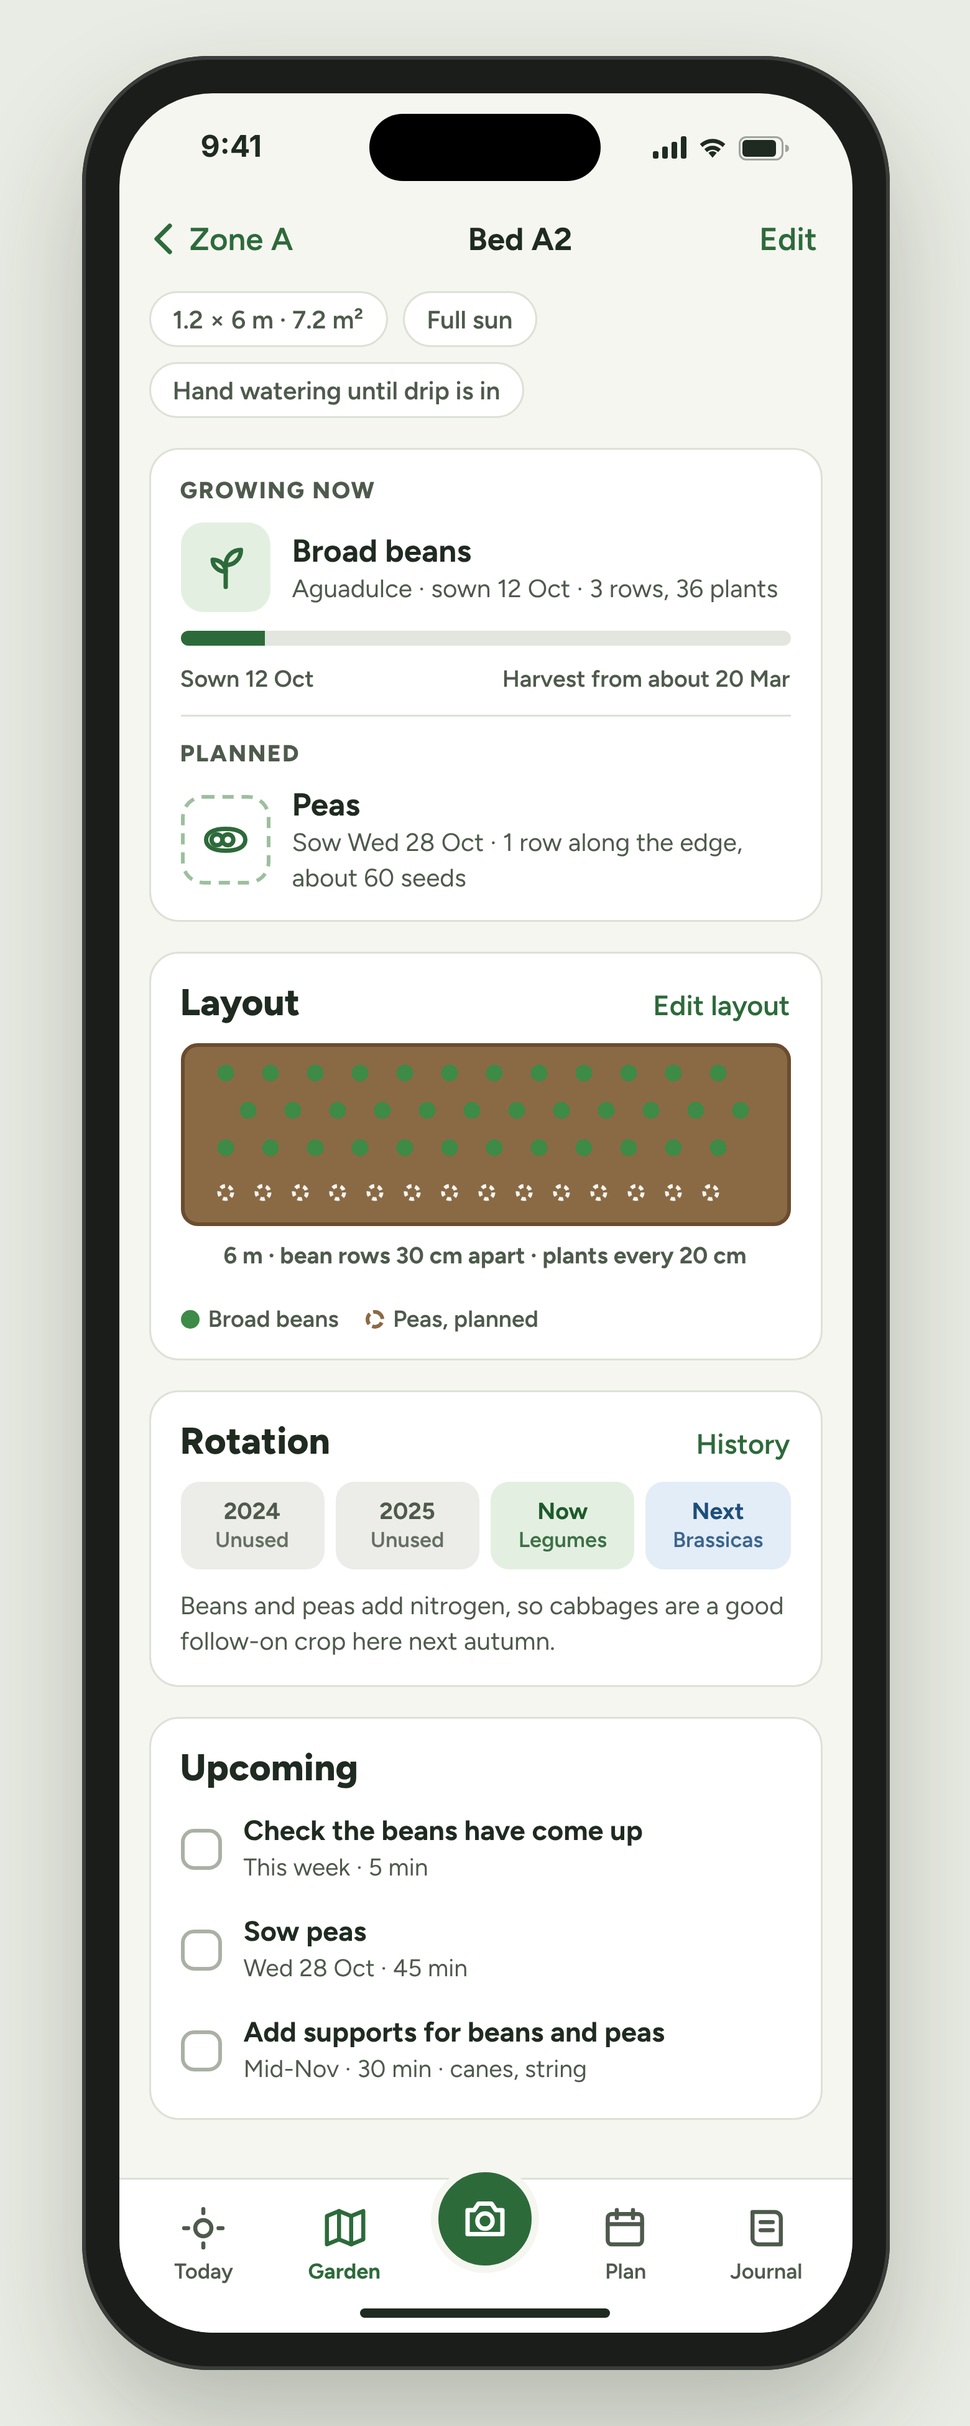
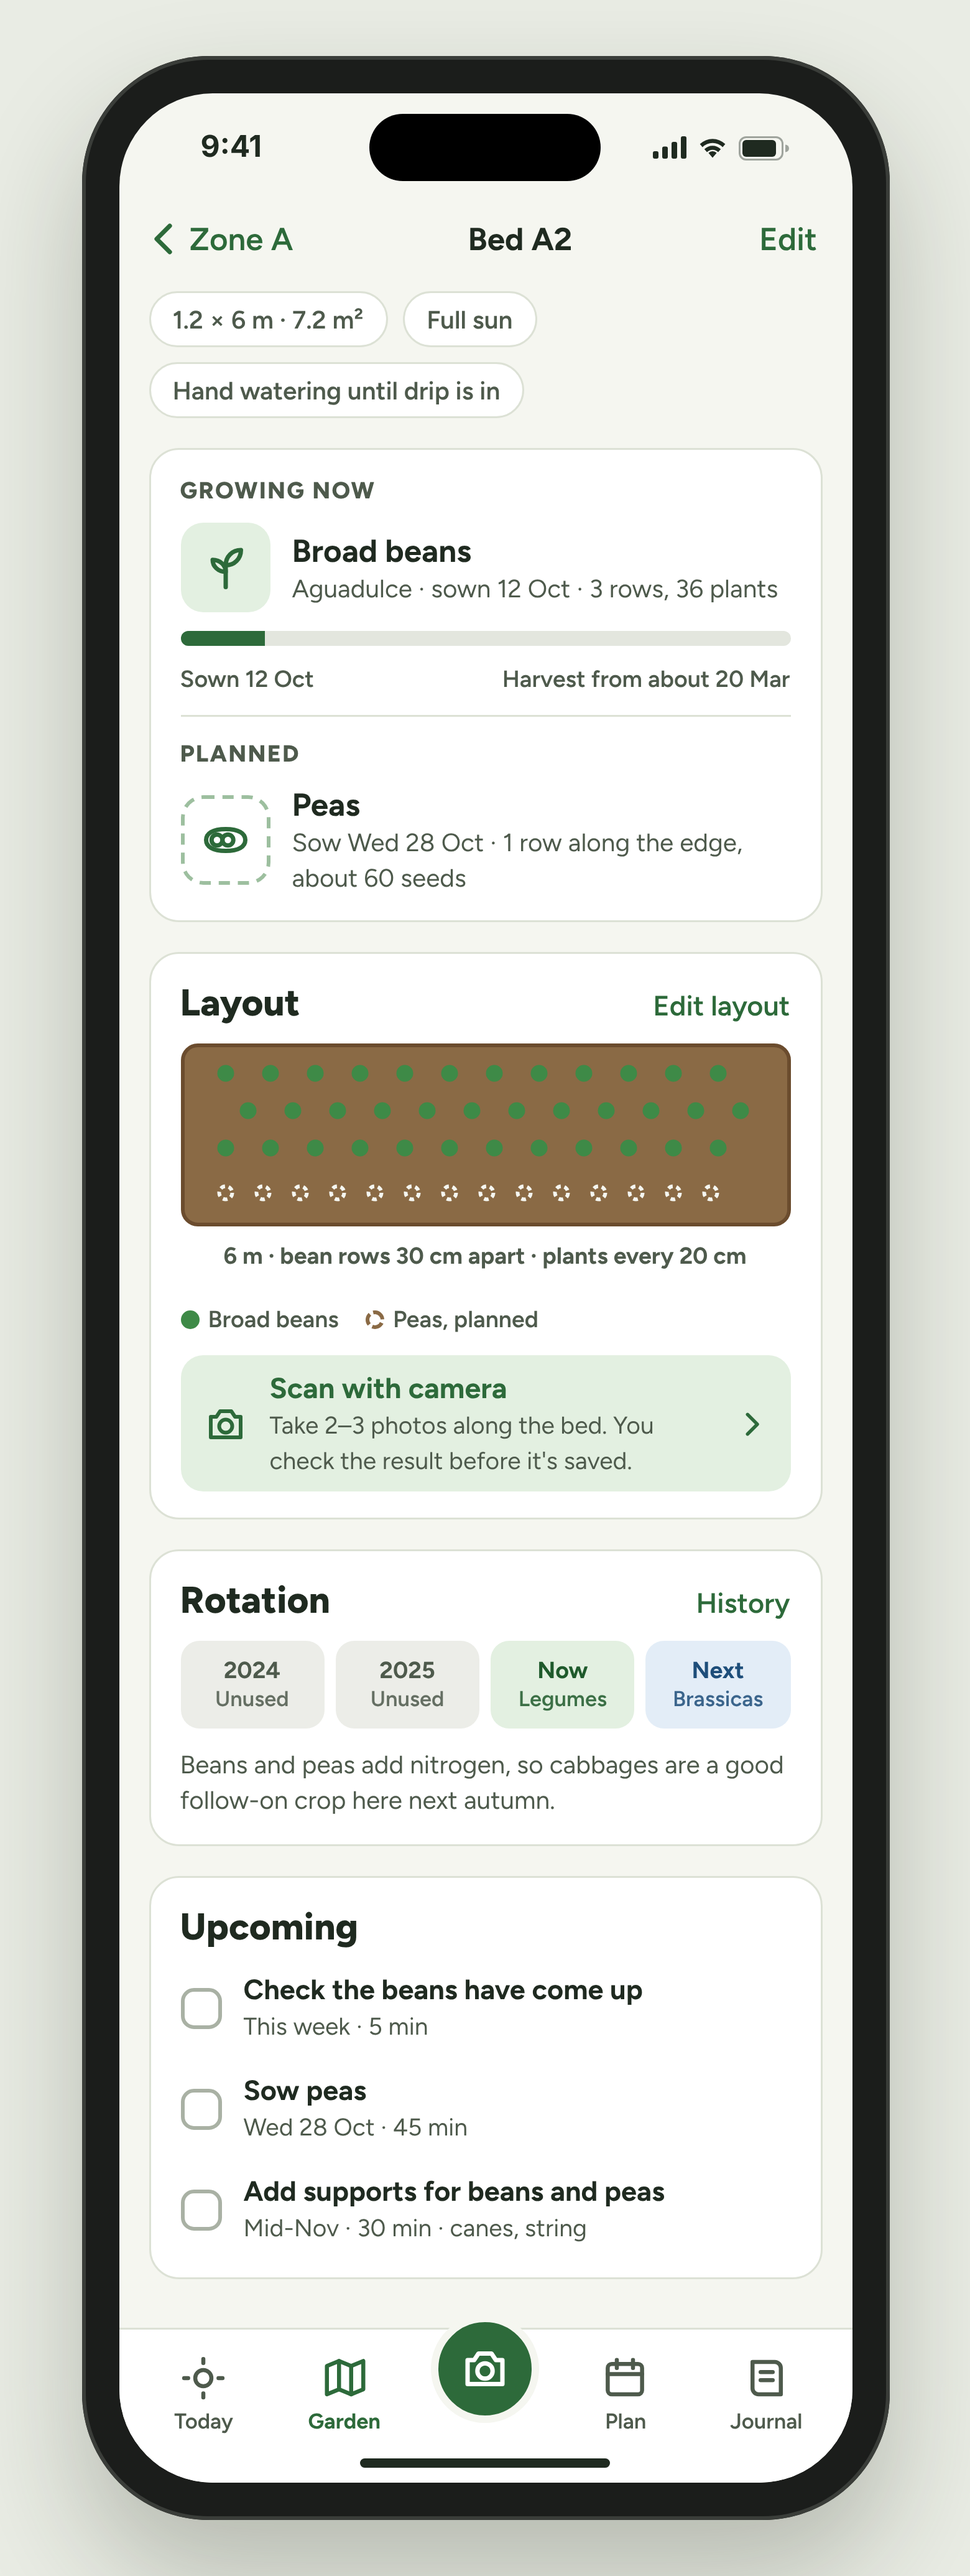
Add bed scan with camera (photo now, AR walk later) to the plan and C3
Claude-Session: https://claude.ai/code/session_015NynAjU4naPZwzmeuGazot

diff --git a/design/source/C3-bed-detail-full.html b/design/source/C3-bed-detail-full.html
@@ -40,7 +40,7 @@
   nav.tabs a.on { color: var(--green); font-weight: 700; }
   nav.tabs .cam { width: 58px; height: 58px; border-radius: 999px; background: var(--green); display: flex; align-items: center; justify-content: center; margin-top: -22px; border: 4px solid var(--bg); }
 </style>
-<style>.stage{height:1300px}.phone{height:1240px}.screen{height:1200px}</style>
+<style>.stage{height:1380px}.phone{height:1320px}.screen{height:1280px}</style>
 </head>
 <body>
 <div class="stage"><div class="phone"><div class="screen">
@@ -94,6 +94,11 @@
         <text x="163" y="118" text-anchor="middle" font-family="Figtree, sans-serif" font-size="12.5" font-weight="700" fill="#4E5A4C">6 m · bean rows 30 cm apart · plants every 20 cm</text>
       </svg>
       <div class="legend"><span><i style="background:#3E8A47"></i>Broad beans</span><span><i style="background:#fff; border: 2px dashed #8A6A45; box-sizing: border-box"></i>Peas, planned</span></div>
+      <div style="display: flex; align-items: center; gap: 12px; min-height: 48px; border-radius: 12px; background: var(--green-soft); padding: 8px 12px; margin-top: 2px">
+        <svg width="24" height="24" viewBox="0 0 24 24" fill="none" stroke="#2D6A3A" stroke-width="2" stroke-linecap="round" stroke-linejoin="round" style="flex: none"><path d="M4 8h3l2-3h6l2 3h3v11H4z"/><circle cx="12" cy="13" r="3.5"/></svg>
+        <div style="flex: 1"><b style="display: block; font-size: 15.5px; color: var(--green)">Scan with camera</b><span style="font-size: 13px; color: var(--muted)">Take 2–3 photos along the bed. You check the result before it's saved.</span></div>
+        <svg width="18" height="18" viewBox="0 0 24 24" fill="none" stroke="#2D6A3A" stroke-width="2.4" stroke-linecap="round" stroke-linejoin="round" style="flex: none"><path d="M9 5l7 7-7 7"/></svg>
+      </div>
     </div>
 
     <div class="card">

diff --git a/design/source/C3-bed-detail.html b/design/source/C3-bed-detail.html
@@ -93,6 +93,11 @@
         <text x="163" y="118" text-anchor="middle" font-family="Figtree, sans-serif" font-size="12.5" font-weight="700" fill="#4E5A4C">6 m · bean rows 30 cm apart · plants every 20 cm</text>
       </svg>
       <div class="legend"><span><i style="background:#3E8A47"></i>Broad beans</span><span><i style="background:#fff; border: 2px dashed #8A6A45; box-sizing: border-box"></i>Peas, planned</span></div>
+      <div style="display: flex; align-items: center; gap: 12px; min-height: 48px; border-radius: 12px; background: var(--green-soft); padding: 8px 12px; margin-top: 2px">
+        <svg width="24" height="24" viewBox="0 0 24 24" fill="none" stroke="#2D6A3A" stroke-width="2" stroke-linecap="round" stroke-linejoin="round" style="flex: none"><path d="M4 8h3l2-3h6l2 3h3v11H4z"/><circle cx="12" cy="13" r="3.5"/></svg>
+        <div style="flex: 1"><b style="display: block; font-size: 15.5px; color: var(--green)">Scan with camera</b><span style="font-size: 13px; color: var(--muted)">Take 2–3 photos along the bed. You check the result before it's saved.</span></div>
+        <svg width="18" height="18" viewBox="0 0 24 24" fill="none" stroke="#2D6A3A" stroke-width="2.4" stroke-linecap="round" stroke-linejoin="round" style="flex: none"><path d="M9 5l7 7-7 7"/></svg>
+      </div>
     </div>
 
     <div class="card">

diff --git a/PLAN.md b/PLAN.md
@@ -316,6 +316,8 @@ Decides which crop goes in which bed, when, and how many, for the coming season 
 
 - **Inputs:** chosen crops (priority and quantity), beds (size and sun), each bed's history (crop families, disease flags) and calendar windows.
 - **Output:** for each bed, the crops, sowing or planting dates, number of plants, and a visual layout inside the bed (rows or grid with spacing).
+- **Scan a bed with the camera:** the user takes 2–3 photos along a bed and the AI proposes its layout: rows, row direction, roughly how many plants per row, and the crop when the plants are big enough (with a confidence level). Rows are fitted to the bed's known size, so spacing is approximate. The result is a draft layout that the user confirms or corrects before it's saved. It also compares the planting with the plan (e.g. "planned 36, counted about 30"). It works only once plants are visible (seedlings or planted-out plants), not right after sowing. Offered from "Edit layout" on the bed screen, in the layout editor and as "Scan a bed" in Snap & Ask. One AI vision call per scan (potential premium).
+- **AR walk (later):** walking along the bed with the iPhone camera and tapping each row or plant, using Apple's AR to measure real positions. Accurate, no AI cost, works offline; Android needs its own version.
 - **Year view of each bed:** a Gantt-style timeline of what occupies each bed, with empty periods highlighted.
 - **Follow-on crops** in the same bed (e.g. early potatoes, then autumn cabbages).
 - **Cover crops** for beds that would otherwise sit empty, such as broad beans or clover. This is soil care, not soil analysis.
@@ -333,6 +335,7 @@ Decides which crop goes in which bed, when, and how many, for the coming season 
   - Plan versions (draft and active).
   - Rotation groups and companion pairings with evidence levels in the knowledge base.
   - Each bed's history, built from the activity log.
+  - Bed scan: photos go through the AI layer with the bed's size, planned crops and season as context, and come back as a structured draft layout (rows, positions, counts, crop and confidence); nothing is saved until the user confirms.
 
 ### 3.17 AI assistant
 

diff --git a/CLAUDE.md b/CLAUDE.md
@@ -84,6 +84,8 @@ The owner is used to Azure DevOps, so the same hierarchy is used, built with sub
 | 2026-10-20 | **All 46 screens rendered** (A1–G6) at the owner's request, for review together. A4 onwards are awaiting the owner's review. Overview sheets: `design/overview/overview-<A–G>.png`. |
 | 2026-10-20 | **Back to one-screen-at-a-time review** after all 46 renders were made. **The GitHub backlog (issues and sprints) will be deleted** and recreated after the design is signed off. |
 | 2026-10-26 | **Weekend planner becomes a week planner** ("Plan your week", B4): hours per day for next week (Mon–Sun) with "Same as last week" and a one-tap **"Day off"** button per day, tasks spread across days by window, weather and size. **Monday reminder** to plan next week, and a **"Plan next week" card on Today** that escalates green (Mon–Wed) → amber (Thu–Fri) → orange (Sat–Sun) until it's planned. **Calendar: write-only** — planned tasks go into a separate "Garden" calendar and stay in sync; the app never reads the user's calendar. Backlog to be updated accordingly (phone-calendar export moves into the week planner). |
+| 2026-10-26 | **Bed layout from the camera:** "Scan with camera" (photo scan) is added to the design: 2–3 photos along a bed, and the AI proposes a draft layout (rows, direction, approximate plant counts, crop with confidence, fitted to the bed's size) that the user confirms or corrects. It also compares the planting with the plan. It works only once plants are visible. Entry points: C3 bed detail, the layout editor and "Scan a bed" in Snap & Ask. Tier: **Good to have**, like the bed layout it fills. **AR walk** (ARKit measurement) is a **Future improvement**. |
 
 ## Open decisions
+- Backlog updates to make when it is rebuilt: week planner replaces the weekend planner (with phone-calendar export moved into it), A5b point details, bed scan with camera (Good to have) and AR walk (Future improvement).
 - Design follow-up: render a Today (B1) variant showing the "Plan next week" card in its amber state, after the screen-by-screen review.
